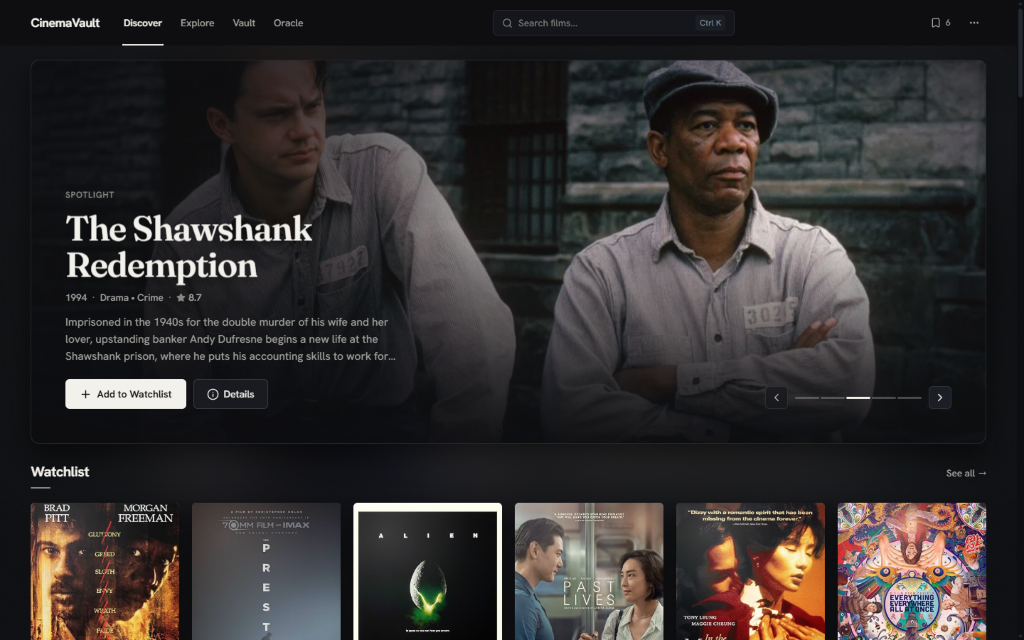
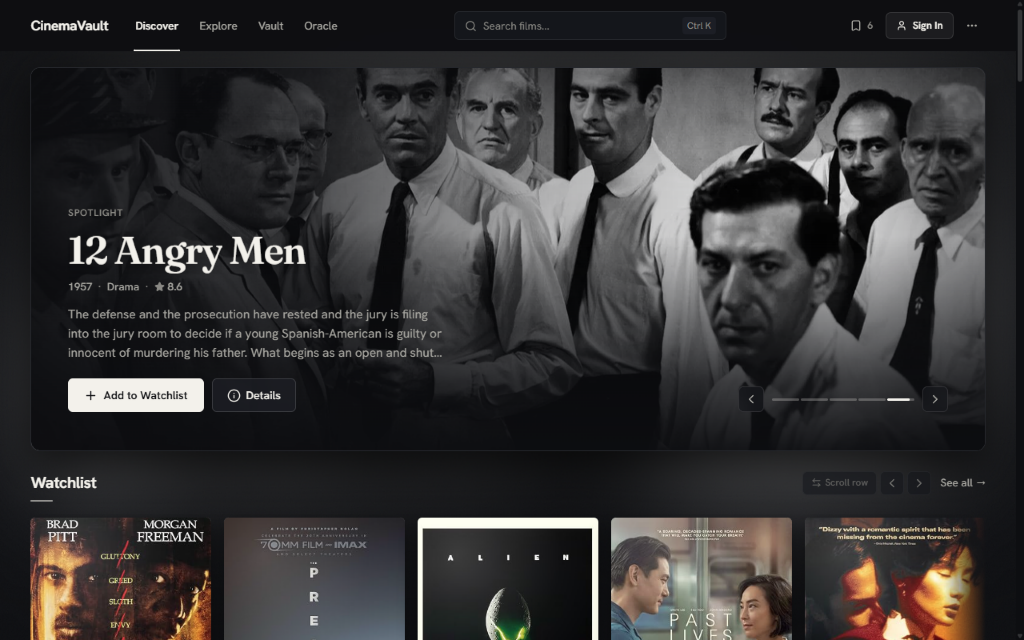
docs: refresh README screenshots and sync all markdown docs with v5.6 UI

diff --git a/SPEC.md b/SPEC.md
@@ -518,14 +518,15 @@ These features build on the same neutral token system. Brass stays limited to st
 - **Proxies:** `/api/gemini`, `/api/tmdb`, `/api/tmdb-batch`, and `/api/omdb` in production. `api/tmdb.js` allows the person, keyword, collection, recommendation, and similar-film paths listed in ARCHITECTURE.md. Direct `VITE_*` keys still work for local development.
 - **Tests:** `npm test` runs the `node --test` suites in `tests/`. Use its output for the current count.
 
-### 7.9 Rating studio & "Discuss This Film" ([ratingStudioService.js](./src/services/ratingStudioService.js), [filmChatService.js](./src/services/filmChatService.js), [MovieDetails.jsx](./src/components/MovieDetails.jsx), [AIChat.jsx](./src/components/AIChat.jsx), [AIPage.jsx](./src/pages/AIPage.jsx))
-- **Live calibration:** as the user hovers or picks a score, `computeVaultCalibration` shows their percentile in the vault and up to two films rated the same score (or the nearest score), each linking to its page.
-- **Optional details:** a collapsible Craft Breakdown (story, direction, performances, visuals and sound; 1–5 each) and a Watch Log (format, custom date, rewatch count, spoiler flag). Clearing a field stores a `null` marker (`buildWatchedRatingPayload({ markCleared: true })`) so an older copy from the cloud does not bring it back.
+### 7.9 Rating studio & "Discuss This Film" ([ratingStudioService.js](./src/services/ratingStudioService.js), [StarRatingStage.jsx](./src/components/StarRatingStage.jsx), [filmChatService.js](./src/services/filmChatService.js), [MovieDetails.jsx](./src/components/MovieDetails.jsx), [AIChat.jsx](./src/components/AIChat.jsx), [AIPage.jsx](./src/pages/AIPage.jsx))
+- **Ascending 10-bar cinema fader:** interactive 1–10 equalizer-style bar stage with editorial tier color grading, rolling serif score readout, pointer hover preview, and explicit click-to-lock (`Select Rating (1–10)` → `Save X/10 to Vault`).
+- **Live calibration:** as the user hovers or locks a score, `computeVaultCalibration` shows their percentile in the vault and a fixed-height two-column strip of up to two films rated the same score (or the nearest score), each linking to its page.
+- **Optional details (progressive disclosure):** clicking tags/details expands Quick Review Tags, Craft Breakdown (story, direction, performances, visuals and sound; 1–5 each), Review Note, and Watch Log (format, custom date, rewatch count, spoiler flag). Clearing a field stores a `null` marker (`buildWatchedRatingPayload({ markCleared: true })`) so an older copy from the cloud does not bring it back.
 - **Discuss This Film:** from the movie hero or the rating footer, the film is cached in `sessionStorage` (keyed by IMDb ID and TMDB ID) and the app opens `/ai?tab=chat&movie=<key>&tmdbId=<id>&title=<title>`. `AIPage` loads the film from the vault, watchlist, cache, or TMDB/OMDb.
 - **Chat context bar:** shows the film and a spoiler toggle. Spoilers are protected by default for unwatched films and allowed for watched ones. Four starter prompts (`buildMovieChatStarterPrompts`). The film dossier is sanitized (`sanitizeLine`) before it goes into the prompt.
 
-### 7.10 Explore workbench & related titles ([ExplorePage.jsx](./src/pages/ExplorePage.jsx), [exploreService.js](./src/services/exploreService.js), [rabbitHoleService.js](./src/services/rabbitHoleService.js), [CollectionTimeline.jsx](./src/components/CollectionTimeline.jsx), [SimilarFilmsStrip.jsx](./src/components/SimilarFilmsStrip.jsx))
-- **URL-synced filters:** the query string holds every filter (genres with AND or OR, excluded genres, years and decade presets, runtime presets, minimum rating, minimum votes (150 or more when sorting by rating), language, country, keyword and person search, providers, sort, and hide-watched). Built with `URLSearchParams`, so keywords are not double-encoded.
+### 7.10 Explore workbench & related titles ([ExplorePage.jsx](./src/pages/ExplorePage.jsx), [exploreService.js](./src/services/exploreService.js), [exploreForYouService.js](./src/services/exploreForYouService.js), [SearchModal.jsx](./src/components/SearchModal.jsx), [rabbitHoleService.js](./src/services/rabbitHoleService.js), [CollectionTimeline.jsx](./src/components/CollectionTimeline.jsx), [SimilarFilmsStrip.jsx](./src/components/SimilarFilmsStrip.jsx))
+- **URL-synced filters & title/franchise search:** the query string holds the search query (`q`), filters (genres with AND or OR, excluded genres, years and decade presets, runtime presets, minimum rating, minimum votes (150 or more when sorting by rating), language, country, keyword and person search, providers, sort, and hide-watched). Built with `URLSearchParams`, so keywords are not double-encoded. SearchModal bridges directly to `/explore?q=...` via `"View all in Explore"` (`Shift+Enter`).
 - **Stable loading:** `deriveExploreViewState` avoids showing stale results during a filter change. If a later page fails, the loaded results stay visible with a retry banner. With hide-watched on, auto-advance goes up to page 3 when page 1 is entirely watched. Active filters appear as removable chips.
 - **Related on the movie page:** clicking a genre or keyword opens `/explore` with that filter. When the film belongs to a collection, `CollectionTimeline` lists the installments in release order (`TBA` last) with the current film marked and a watched count. `SimilarFilmsStrip` merges local 64-D vector neighbors with TMDB `/recommendations` (or `/similar` when there are fewer than four results) and tags each card by source.
 
@@ -574,6 +575,11 @@ These features build on the same neutral token system. Brass stays limited to st
 - **Universal `"For You"` Match:** Compact Match `%` + calibrated `Est. X.X/10` tile on Movie Detail pages and Match `%` pills on indexed unseen Search results; Discover's `"Picked For Your Taste"` row mirrors the user's real `"Movies You'll Like"` pool.
 - **Flagship Film Oracle Concierge:** 4 Tonight Starter Cards (including an instant `$0.00` Watchlist Tonight ranker), full-bleed `#1 Top Pick Tonight` Spotlight hero, and non-blocking corner job banner + `"View →"` completion toast so users can freely browse the site while curation finishes.
 - **Opt-In Community Mode:** Private-by-default toggle in `/account`, lazy `/u/:username` profile page with route-scoped `community.css` (Top 4 Showcase, 64-D Taste Twin %, Unseen Favorites, Rating Histogram, Spoiler-Safe Watch Diary), and CinemaVault Community ratings/reviews on Movie Detail pages.
+
+### 8.8 v5.6 Cinema Rating Fader, Explore Title Search & UI Overhaul
+- **Ascending 10-Bar Rating Studio:** Replaced the star row in [StarRatingStage.jsx](./src/components/StarRatingStage.jsx) with an ascending 10-bar cinema fader (`getEditorialScorePalette`), rolling serif score readout, explicit lock-on-click confirmation (`Select Rating (1–10)` → `Save X/10 to Vault`), fixed-height 2-column calibration strip, and progressive review disclosure.
+- **Explore Title/Franchise Search & SearchModal Bridge:** Added unified `?q=` title and franchise search across both `"All Catalog"` ([exploreService.js](./src/services/exploreService.js)) and `"Movies You'll Like"` ([exploreForYouService.js](./src/services/exploreForYouService.js)), linked directly from [SearchModal.jsx](./src/components/SearchModal.jsx) (`"View all in Explore"` / `Shift+Enter`).
+- **Visual Polish & Container Alignment:** Upgraded motion, card transitions, and hierarchy across `HeroBillboard`, `MovieCarouselRow`, `MovieCard`, `VaultBanner` (`Rating Spread` sparkline), `OracleTopPickSpotlight`, `AIChat`, `BackupManagerModal` CSV onboarding tips, and `MovieCommunitySection` container spacing in [community.css](./src/styles/community.css).
 
 ---
 

diff --git a/README.md b/README.md
@@ -45,7 +45,7 @@ CinemaVault keeps your film log in your browser by default. It uses your ratings
 | Gemini cascade & BYOK | Dual Flash-Lite cascade (`gemini-3.5-flash-lite` + `gemini-3.1-flash-lite`, up to 1,000 free requests/day) with error-specific cooldowns, optional browser-local personal Gemini key (`cv_user_gemini_key`), and deterministic on-device ranker fallback when shared quota is at capacity. |
 | Editions (Public / Personal) | Clean Public Edition by default; toggle Personal/Debug UI with `?debug=1` (`?debug=0` to clear) or build with `VITE_APP_EDITION=personal`. |
 | Streaming | 12 services, 13 provider alias families, 15 regions. |
-| Rating studio | 10-star stage, live percentile calibration, optional 4-aspect craft scores, and watch-session metadata. |
+| Rating studio | Ascending 10-bar cinema fader with editorial color grading, rolling score readout, live percentile calibration, same-tier pills, optional 4-aspect craft scores, and watch-session log. |
 | Demo onboarding | One-click `"Try a sample vault"` loads 14 rated films + 6 watchlist films locally without touching cloud sync. |
 | Import and export | Letterboxd and CinemaVault CSV import, Schema v2 JSON backup, and a diff preview before applying. |
 | Discovery & Explore For You | Discover's **"Picked For Your Taste"** row mirrors your real `CVEM v1` **"Movies You'll Like"** pool with match badges + `"See all →"`; `/explore` hosts a filterable workbench and 3-wave progressive ~250-film personalized pool backed by Web Worker ML and non-blocking background curation. |
@@ -67,7 +67,7 @@ CinemaVault keeps your film log in your browser by default. It uses your ratings
 | :---: | :---: |
 | ![Film Oracle Recommendations](assets/screenshots/oracle.png) | ![My Vault and Insights](assets/screenshots/vault.png) |
 
-| 10-Star Rating Studio | Side-by-Side Comparison |
+| Ascending 10-Bar Rating Studio | Side-by-Side Comparison |
 | :---: | :---: |
 | ![Movie Detail Rating Studio](assets/screenshots/movie-rating-studio.png) | ![3-Film Comparison Matrix](assets/screenshots/compare.png) |
 
@@ -130,8 +130,9 @@ Pick a random film from your Watchlist or your Watched list, with an animated re
 
 ### 7. Rating studio
 
-- A 10-star stage with a numeric readout and a tier label for each score.
-- **Live calibration:** as you pick a score, the stage shows your percentile in the vault and up to two films rated the same or nearest.
+- An ascending 10-bar cinema fader (`1` to `10`) with editorial color grading, rolling serif score readout, and a tier label for each score. Clicking a bar locks your score (`Save X/10 to Vault`), while hovering previews without saving accidentally.
+- **Live calibration:** as you hover or lock a score, the stage shows your percentile in the vault and a compact two-column strip of up to two films rated the same or nearest.
+- **Progressive review drawer:** toggle `+ Add tags, craft breakdown & note` when desired to attach Quick Review Tags, 4-aspect craft ratings, Watch Log metadata, or a short review note without cluttering the studio card.
 - **Optional craft scores (1–5):** story, direction, performances, and visuals and sound.
 - **Watch log:** format (streaming, theater, IMAX or Dolby, physical media), rewatch count, and watch date.
 - **Notes and tags:** a short note and one-tap tags such as `#TightPacing` or `#WeakEnding`. Notes in Quick Rate are capped at 200 characters. Notes are passed to Gemini up to 180 characters.
@@ -155,7 +156,7 @@ Click any cast member or crew credit to open their filmography in an overlay, wi
 ### 10. Search and trailers
 
 - `Cmd + K` (Mac) or `Ctrl + K` (Windows and Linux), or `/` outside text fields, opens search.
-- Search queries OMDb and TMDB in parallel, merges results, and marks films already in your vault.
+- Search queries OMDb and TMDB in parallel, merges results, shows instant `"For You"` Match `%` pills on unseen candidates, and lets you jump straight into Explore filtering via **"View all in Explore"** (`Shift + Enter`).
 - Trailers prefer an official English trailer, then other trailers, then teasers. Playback opens on YouTube. Films with no trailer data link to a YouTube search.
 
 ### 11. Interface & Two Editions
@@ -181,7 +182,7 @@ On a first visit with fewer than three rated films, a 30-film deck opens. Visito
 
 ### 14. Explore workbench (`/explore`) & "Movies You'll Like"
 
-- **All Catalog mode:** deep filters across genres (include and exclude), decades or custom years, runtime, minimum rating, minimum votes, language, country, keyword and person search, streaming services, and hide-watched.
+- **All Catalog mode:** direct title and franchise search (`?q=`) plus deep filters across genres (include and exclude), decades or custom years, runtime, minimum rating, minimum votes, language, country, keyword and person search, streaming services, and hide-watched.
 - **"Movies You'll Like" mode (`?mode=for-you`):** combines your full on-device ML taste stack (25k CVEM v1 collaborative embeddings, content embeddings, cinematic DNA, negative repulsion, and personalized logistic ranker) with a single-shot Flash-Lite pass over the top flagship picks to build a **~250-film** personalized library of unseen TMDB-verified movies with match percentages and editorial vibe tags.
   - Cached locally in IndexedDB (7-day TTL) and optionally synced per user via the RLS-protected Supabase `public.user_explore_picks` table (sample vaults stay strictly local).
   - Supports instant client-side Deep Filtering across your personalized pool and quality-weighted **"Shuffle"** reordering with zero extra API calls.

diff --git a/LOCAL_MODEL_GUIDE.md b/LOCAL_MODEL_GUIDE.md
@@ -244,6 +244,7 @@ Tested step-by-step via `scripts/experiments/run_ablation.mjs` on `item_embeddin
 | **20** | **Explore `"Movies You'll Like"` pool felt small (~100 films, only ~12 Sci-Fi), skipped full `CVEM v1` / DNA / personalized ranker wiring initially, and pushed header buttons right on mode switch** | Initial pool targeted 100 items, waited on Gemini before showing results, and rendered `Shuffle`/`Refresh` conditionally right beside the centered mode toggle causing horizontal layout shift | Scaled `EXPLORE_FOR_YOU_TARGET_COUNT = 250` with full `CVEM v1` + Content + DNA + personalized logistic ranker + `160` embedding neighbors + `onPreliminaryReady` instant render + 48-card pagination + dedicated zero-shift 2-band `.explore-mode-toolbar` (`0px` shift) | [exploreForYouService.js](./src/services/exploreForYouService.js), [ExplorePage.jsx](./src/pages/ExplorePage.jsx) |
 | **21** | **Horizontal carousel wheel scrolling hijacked vertical page scrolling, and Discover rows leaked unreleased future titles or failed transiently on cold load** | Global wheel listener intercepted vertical scroll whenever cursor crossed a row; Discover TMDB queries lacked an upper release-date ceiling and ran unbounded parallel requests without retry | Switched to opt-in smooth wheel engagement (`"Scroll row"` pill / border click / `Shift + Wheel` with `pointerleave` + outside-click + `Esc` release) via `useHorizontalWheelScroll.js` & `scrollHelpers.js`; added `primary_release_date.lte: todayIso` (`releaseGuardVersion: 2`), `3`-lane concurrency cap, & single retry in `dashboardService.js` | [useHorizontalWheelScroll.js](./src/hooks/useHorizontalWheelScroll.js), [scrollHelpers.js](./src/services/scrollHelpers.js), [dashboardService.js](./src/services/dashboardService.js) |
 | **22** | **Prefixed `cinemavault_home_feeds_v2::*` cache entries escaped `localStorage` quota eviction, and demo sample vault data risked leaking into Supabase** | Exact-key purge order missed dynamic `cinemavault_home_feeds_v2::` suffixes; sample rows needed explicit exclusion from cloud vault & `user_explore_picks` upserts | Extracted `storageEviction.js` (`STORAGE_PURGE_ORDER` with prefix sweep for `cinemavault_home_feeds_v2::`) and excluded `isSample` / `hasSampleData` sessions from Supabase sync & cloud For You cache | [storageEviction.js](./src/services/storageEviction.js), [exploreForYouCache.js](./src/services/exploreForYouCache.js), [vaultSyncService.js](./src/services/vaultSyncService.js) |
+| **23** | **Rating Studio hover preview leaked into save state & Explore lacked direct title/franchise search** | Ephemeral hover state needed strict separation from committed bar selection (`selectedScore`) and calibration card layout height varied dynamically | Upgraded `StarRatingStage` to an ascending 10-bar cinema fader with explicit click-to-lock (`Select Rating (1–10)` → `Save X/10 to Vault`), fixed 2-col calibration strip, progressive review disclosure, and added `?q=` Explore title search + `SearchModal` bridge | [StarRatingStage.jsx](./src/components/StarRatingStage.jsx), [MovieDetails.jsx](./src/components/MovieDetails.jsx), [exploreService.js](./src/services/exploreService.js), [SearchModal.jsx](./src/components/SearchModal.jsx) |
 
 ---
 
@@ -261,8 +262,10 @@ npm test
   - `tests/apiProxy.test.js`
   - `tests/appStorage.test.js`
   - `tests/authService.test.js`
+  - `tests/backgroundJobService.test.js`
   - `tests/chatCardHelpers.test.js`
   - `tests/chatErrors.test.js`
+  - `tests/communityService.test.js`
   - `tests/compareService.test.js`
   - `tests/contentSim.test.js`
   - `tests/csvImport.test.js`
@@ -306,6 +309,7 @@ npm test
   - `tests/selectPrimitive.test.js`
   - `tests/siteUrl.test.js`
   - `tests/tasteDeckService.test.js`
+  - `tests/tasteMatchService.test.js`
   - `tests/tasteRulesService.test.js`
   - `tests/tmdbRabbitHoleHelpers.test.js`
   - `tests/vaultPortability.test.js`
@@ -317,7 +321,7 @@ npm test
 npm run build
 ```
 **What "healthy" looks like:**
-- Exits `0`, transforms **`2351 modules`**, emits vendor-split JS chunks (`index-*.js` ~394 kB, plus lazy `vendor-supabase`, `vendor-genai`, and `embeddingWorker-*.js`) and route-scoped CSS into `build/assets/...`, and copies `public/models/item_embeddings_f16.bin` into `build/models/item_embeddings_f16.bin`.
+- Exits `0`, transforms **`2359 modules`**, emits vendor-split JS chunks (`index-*.js` ~420 kB, plus lazy `vendor-supabase`, `vendor-genai`, and `embeddingWorker-*.js`) and route-scoped CSS into `build/assets/...`, and copies `public/models/item_embeddings_f16.bin` into `build/models/item_embeddings_f16.bin`.
 - When built with server-only API secrets (`GEMINI_API_KEY`, `TMDB_API_KEY`, `OMDB_API_KEY` on Vercel without `VITE_*` client keys), `build/assets/*.js` contains zero API keys (routes go through `/api/gemini`, `/api/tmdb`, `/api/omdb`).
 
 ### Check 3: Inspect the Active `.bin` Model Header & Exact Byte Count

diff --git a/ARCHITECTURE.md b/ARCHITECTURE.md
@@ -1104,3 +1104,16 @@ CinemaVault operates **guest-first in `localStorage`** and enables multi-device 
 - Lazy `/u/:username` profiles render Top 4 Showcase, rating distribution histogram, Follow/Unfollow, **64-D Taste Twin %** (`computeTasteTwinCompatibility`), *"Films They Loved You Haven't Seen"*, and spoiler-blurred Watch Diary reviews; `MovieCommunitySection` displays live CinemaVault Community averages and reviews on Movie Detail pages.
 
 ---
+
+## 26. v5.6 Ascending 10-Bar Rating Fader, Explore Search & Visual Polish
+
+- **Ascending 10-Bar Cinema Fader (`src/components/StarRatingStage.jsx`, `src/components/MovieDetails.jsx`):**
+  - Renders 10 proportionally ascending equalizer bars (`1..10`) tinted via `getEditorialScorePalette(score)` with a rolling serif numeric readout and tier badge.
+  - Separates ephemeral hover preview from committed `selectedScore` (`Select Rating (1–10)` disabled until a bar is clicked, then `Save X/10 to Vault` or `Update X/10 Entry`), keeping the calibration strip (`Same tier in Vault`) layout-stable via a fixed-height 2-column grid and folding Quick Review Tags, Craft Breakdown, Watch Log, and Note behind `+ Add tags, craft breakdown & note`.
+- **Explore Title & Franchise Search (`src/services/exploreService.js`, `src/services/exploreForYouService.js`, `src/components/SearchModal.jsx`):**
+  - `applyExploreQueryTransition` and `filterAndSortSearchResults` query TMDB `/search/movie` (`SEARCH_PAGES_PER_BATCH`) when `filters.query` is active in All Catalog mode, while `filterForYouCatalog` filters the ~250-film personalized pool in `"Movies You'll Like"` mode.
+  - `SearchModal` includes a `"View all in Explore"` pill (`Shift+Enter`) that preserves the search query into `/explore?q=...`.
+- **Cross-App Visual & Spacing Overhaul (`HeroBillboard.jsx`, `MovieCarouselRow.jsx`, `MovieCard.jsx`, `VaultBanner.jsx`, `OracleTopPickSpotlight.jsx`, `AIChat.jsx`, `BackupManagerModal.jsx`, `src/styles/community.css`):**
+  - Refined transitions, card depth, `VaultBanner` rating-spread sparkline, CSV import guidance inside `BackupManagerModal` / `SampleVaultBanner`, and responsive container padding alignment on `MovieCommunitySection`.
+
+---
